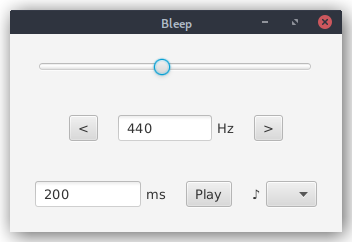
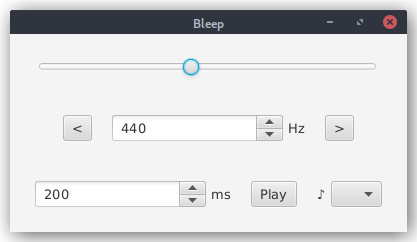
Cljfx: Use Spinner instead of homegrown text field validation
Simplifies both example and tutorial

diff --git a/examples/cljfx/tutorial.md b/examples/cljfx/tutorial.md
@@ -197,20 +197,33 @@ function:
    :value (frequency->position frequency)})
 ```
 
-Underneath the slider is a text field showing the current frequency.
+Underneath the slider is a spinner showing the current frequency.
 
 ```clojure
+(defn number-field [{:keys [value-factory-class min-value max-value init-value state-key label]}]
+  {:fx/type :h-box
+   :alignment :center
+   :spacing 5
+   :children [{:fx/type :spinner
+               :editable true
+               :value-factory {:fx/type value-factory-class
+                               :min min-value
+                               :max max-value
+                               :value init-value}}
+              {:fx/type :label
+               :text label}]})
+
 (defn frequency-controls [{:keys [frequency]}]
   {:fx/type :h-box
    :alignment :center
    :spacing 20
-   :children [{:fx/type :h-box
-               :alignment :center
-               :spacing 5
-               :children [{:fx/type :text-field
-                           :text (str frequency)}
-                          {:fx/type :label
-                           :text "Hz"}]}]})
+   :children [{:fx/type number-field
+               :value-factory-class :double-spinner-value-factory
+               :min-value min-frequency
+               :max-value max-frequency
+               :init-value frequency
+               :state-key :frequency
+               :label "Hz"}]})
 ```
 
 Add this to the `:children` vector of the `:v-box` in the `root` map:
@@ -278,10 +291,10 @@ this function:
 :on-value-changed #(set-frequency (position->frequency %))
 ```
 
-and add an `:on-text-changed` property to the `:text-field`:
+and add an `:on-value-changed` property to the `:spinner`:
 
 ```clojure
-:on-text-changed #(set-frequency (read-string %))
+:on-value-changed #(swap! *state assoc state-key %)
 ```
 
 And that's it. When one changes, the other does too. Once you get your head
@@ -321,98 +334,8 @@ Now just add these buttons to the `:children` vector of the `:h-box` in the
   :modifier 2}]
 ```
 
-If you slide the slider, the text field updates accordingly. If you type a
-number in the text field, the slider updates accordingly. All good, right? What
-if a user (and you know they will) enters a number higher than 20,000 or a
-letter?
-
-JavaFX has a `TextFormatter` class for this purpose. The `TextFormatter` uses a
-filter that can intercept and modify user input and a value converter that
-converts the value of the text field to a specified type whenever the field
-loses focus or the user hits Enter. The filter should be a function that
-accepts a Java `TextFormatter.Change` object and either returns that object or
-returns null (`nil` in Clojurese) to reject the change.
-
-```clojure
-; Text field limited to entering numbers within range that updates specified
-; key in global state atom (state-key)
-(defn num-filter [change]
-  (let [input (.getControlNewText change)
-        numified (read-string input)]
-    (if (or (= input "") (number? numified))
-        change
-        nil)))
-(defn number-field [{:keys [min-value max-value init-value state-key label]}]
-  {:fx/type :h-box
-   :alignment :center
-   :spacing 5
-   :padding {:top 0 :bottom 0 :left 20 :right 20}
-   :children [{:fx/type :text-field
-               :pref-column-count (+ 1 (count (str max-value)))
-               :text-formatter {:fx/type :text-formatter
-                                :value-converter :number
-                                :filter num-filter
-                                :value init-value
-                                :on-value-changed #(cond (< % min-value) (swap! *state assoc state-key min-value)
-                                                         (> % max-value) (swap! *state assoc state-key max-value)
-                                                         :else (swap! *state assoc state-key %))}}
-              {:fx/type :label
-               :text label}]})
-```
-
-Cljfx doesn't provide wrappers for the methods of `TextFormatter.Change`, but
-we can call the `getControlNewText()` method using Clojure's Java interop. This
-method returns the complete new text wich will be used on the control after the
-change. We can check this value to determine if we want to accept the change or
-not.
-
-A caveat here is that the value of `:filter` [must
-be](https://github.com/cljfx/cljfx/issues/114#issuecomment-754642403) a
-top-level function. I wish I could define `:filter` as an anonymous function.
-This would allow me to do something like also preventing the user from even
-entering a number higher than the allowed range rather than just reverting to
-the maximum value once the value is committed.
-
-```clojure
-:filter #(let [input (.getControlNewText %])
-               numified (read-string input)]
-           (if (or (= input "") (and (number? numified) (<= max-value)))
-               %
-               nil))
-```
-
-If you try the above, it will throw a `Replace forbidden` error. That's because
-`:filter` is a constructor argument of `TextFormatter` that cannot be modified
-afterward. If you use an anonymous function, every call to `number-field`
-(whenever the UI is being rerendered due to a change of state) will try to
-create a new instance of the filter function, which is forbidden. But by making
-`num-filter` a top-level function, it is now out of the scope of `max-value`. I
-tried passing `max-value` to it by wrapping `num-filter` with a function that
-takes `max-value` and calling that function in `:filter`, but that still
-resulted in `Replace forbidden`. I also tried defining `max-value` at the
-top-level and wrapping the map inside `number-field` with `binding` to reassign
-the value of `max-value`, but since `num-filter` is being passed to the
-`TextFormatter` and called later it is called outside the scope of the
-`binding` and still unable to see `max-value`. I finally gave up and fell back
-on just having the field revert to `max-value` once the value is committed. If
-anyone has a solution for getting `max-value` to the `num-filter` function, I
-welcome pull requests.
-
-Now let's replace the baseline `:text-field` and the `:h-box` surrounding it
-with our new `number-field`:
-
-```clojure
-{:fx/type number-field
- :min-value min-frequency
- :max-value max-frequency
- :init-value frequency
- :state-key :frequency
- :label "Hz"}
-```
-
-Let's use this `number-field` again to create a field to specify the duration
-of the beep in milliseconds. First, let's add a key to our global state atom to
-track duration:
+Let's use another spinner to specify the duration of the beep in milliseconds.
+First, let's add a key to our global state atom to track duration:
 
 ```clojure
 (def *state
@@ -427,6 +350,7 @@ Then create our duration field:
   {:fx/type :h-box
    :spacing 20
    :children [{:fx/type number-field
+               :value-factory-class :integer-spinner-value-factory
                :min-value 1
                :max-value 600000 ; 10 minutes
                :init-value duration

diff --git a/survey.md b/survey.md
@@ -21,7 +21,7 @@ experimental, a WIP, or someone's half-finished bindings to a GUI toolkit.
 Actively maintained doesn't necessarily mean a release within x months.
 Sometimes a stable library can go a couple years between releases. I'll also
 look to see if the maintainer seems to be responsive to issues and pull
-requests. If you thinked I missed a library that I should try out, let me know.
+requests. If you think I missed a library that I should try out, let me know.
 
 I didn't want to create the umpteenth calculator or todo example, so I built a
 simple GUI for generating a tone. I also wrote tutorials for creating the
@@ -77,3 +77,50 @@ Designer](https://github.com/Metaxal/MrEd-Designer)) if you're so inclined. The
 one thing on my wishlist that Racket lacks is a declarative syntax for
 declaring GUIs, but Racket being Racket, it wouldn't be too difficult to build
 a declarative DSL.
+
+### Cljfx
+
+Links: [Tutorial](https://blog.matthewdmiller.net/learn-clojure-by-example-javafx-gui-with-cljfx) / [Code](https://github.com/goober99/lisp-gui-examples/tree/master/examples/cljfx)
+
+<img align="right" width="320" height="221" src="https://raw.githubusercontent.com/goober99/lisp-gui-examples/master/screenshots/survey/cljfx-defold-editor.png" />
+
+As effusive as I was about Racket, you might wonder why I have included a
+second library under "Recommended." Clojure is arguably the most popular modern
+Lisp dialect. It's [used](https://clojure.org/community/success_stories) by
+companies like Walmart. With Clojure's Java interop, you have access to the
+entire JVM ecosystem. Even with Racket's batteries-included philosophy and 3rd
+party packages available with `raco`, the number of libraries available for
+Racket pales in comparison to the number of Java libraries there are. There may
+be already-existing Java libraries that integrate with APIs or provide features
+that you need in your app.
+
+Cljfx is a Clojure wrapper of JavaFX. JavaFX doesn't use native controls,
+instead drawing its own controls. Swing apps have a dated look that I find
+unpleasant, but I actually like the look of JavaFX. You can completely
+customize the look and feel with CSS. If you want a custom look and feel for
+your app instead of native controls, Cljfx would be a better choice than
+Racket.
+
+The [editor](https://github.com/defold/defold/tree/dev/editor) for the
+[Defold](https://defold.com/) game engine is written in Clojure using Cljfx.
+The developer of Cljfx is
+[employed](https://www.youtube.com/watch?v=xcMNTKFmEgI) by King (the makers of
+Candy Crush) to work on the Defold editor. The README reads like an extended
+tutorial and there are lots of included examples, but other than that, there's
+not really any documentation. While the README is informative, some
+reference-style documentation would be nice. JavaFX is [well
+documented](https://openjfx.io/) and has a large number of controls available,
+but all the examples given are in Java, of course.
+
+Cljfx is a declarative wrapper of JavaFX. I really like being able to build
+GUIs declaratively. Instead of specifying the UI with a markup language like
+other declarative toolkits (such as QML), Cljfx uses Clojure maps. This enables
+some powerful features such as a composable UI, but maps are not as
+designer-friendly as a markup language when coordinating with a designer.
+
+One drawback with Cljfx and Clojure is startup time. On my desktop, it takes
+nearly 5 seconds from when I launch the little example app I created until the
+GUI appears on the screen. This is fine for big apps that you'll leave open and
+spend a lot of time in after starting it (like a game editor). It might be
+unacceptable for small apps that you open and close whenever you need them such
+as a calculator or note taking app.
